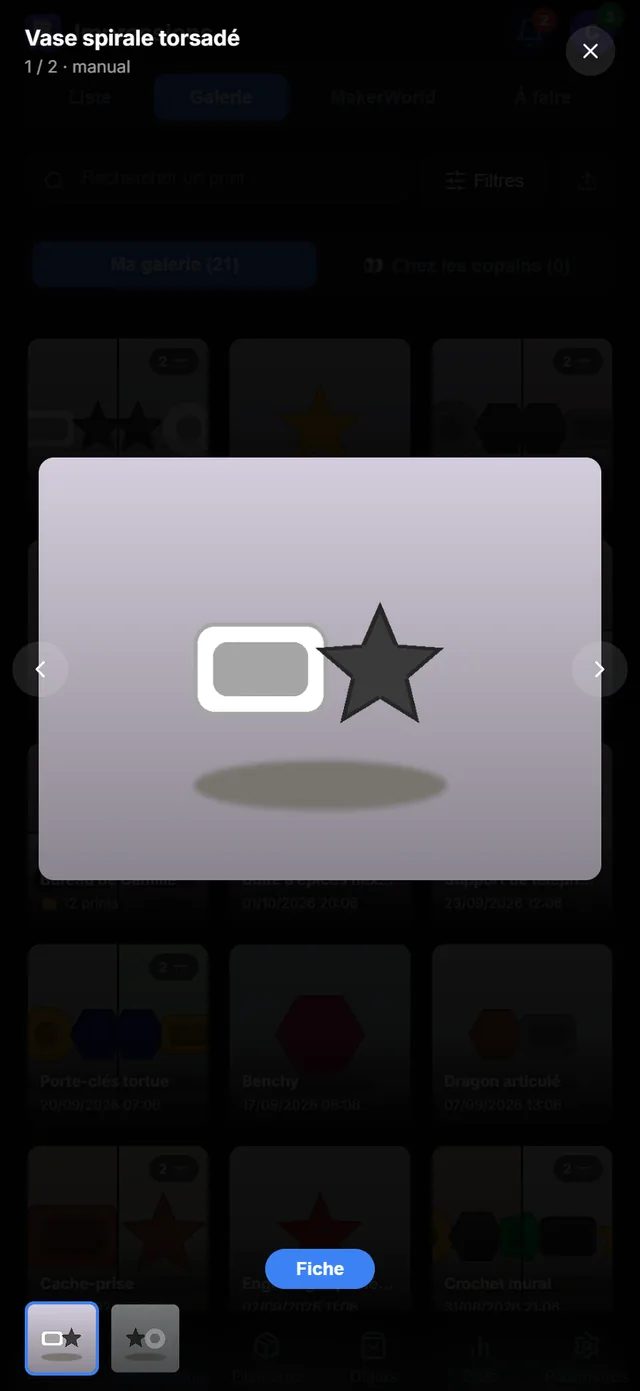
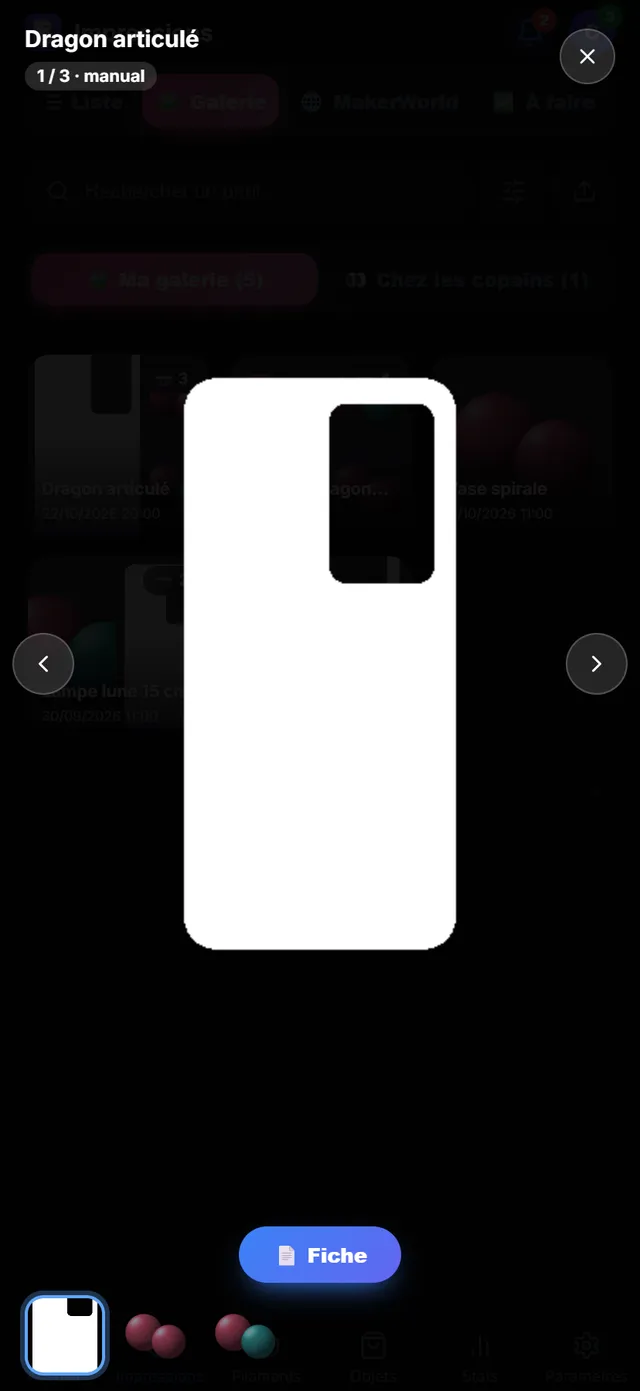
Galerie redessinée : tuiles arrondies, sélection et comparaison soignées, défilement plein écran
Bascule Ma galerie / Chez les copains en couleur, compteur de photos en verre,
tuiles cochées entourées de bleu, bandeau de sélection en verre, fenêtre
Comparer et défilement plein écran refaits. Guide mis à jour.

diff --git a/frontend/src/components/GalleryCompare.jsx b/frontend/src/components/GalleryCompare.jsx
@@ -102,7 +102,10 @@ export default function GalleryCompare({
   });
 
   if (!items?.length) {
-    return <p style={{ textAlign:"center", color:"var(--muted)", fontSize:13, padding:"32px 0" }}>{emptyLabel}</p>;
+    return <div style={{ padding:"26px 16px", borderRadius:18, border:"1px dashed var(--border)", textAlign:"center",
+      background:"radial-gradient(80% 80% at 50% 0%, rgba(236,72,153,0.12), transparent 70%), var(--surface2)" }}>
+      <div style={{ fontSize:30, marginBottom:6 }}>🖼</div>
+      <p style={{ color:"var(--muted)", fontSize:13, fontWeight:600, margin:0 }}>{emptyLabel}</p></div>;
   }
 
   const visibleItems = items.slice(0, visibleCount);
@@ -136,10 +139,12 @@ export default function GalleryCompare({
               onTouchMove={e => { const t=e.touches[0]; movePress(t.clientX, t.clientY); }}
               onTouchEnd={cancelPress}
               onContextMenu={e => e.preventDefault()}
-              style={{ position:"relative", borderRadius:10, overflow:"hidden", cursor:"pointer",
+              style={{ position:"relative", borderRadius: swatchMode ? 10 : 16, overflow:"hidden", cursor:"pointer",
                 aspectRatio: swatchInfo ? undefined : "1", background:"var(--surface2)",
                 display: swatchInfo ? "flex" : undefined, flexDirection:"column",
-                border: checked ? "2px solid #3b82f6" : "2px solid transparent" }}>
+                border: checked ? "2px solid #3b82f6" : "2px solid transparent",
+                boxShadow: checked ? "0 0 0 3px rgba(59,130,246,0.3), 0 10px 24px -12px #3b82f6" : swatchMode ? "none" : "0 8px 20px -14px rgba(0,0,0,.6)",
+                transform: checked ? "scale(.97)" : "none", transition:"transform .15s, box-shadow .15s" }}>
               {swatchInfo ? (
                 // Nuancier avec ses informations : la couleur occupe toute la
                 // tuile, le texte vit sur un voile translucide en bas. Un
@@ -181,16 +186,17 @@ export default function GalleryCompare({
                   boxShadow:"inset 0 0 0 1px rgba(0,0,0,0.22)" }}/>
               )}
               {photos.length > 1 && !swatchMode && (
-                <span style={{ position:"absolute", top:6, right:6, background:"rgba(0,0,0,0.6)", color:"white",
-                  fontSize:9, fontWeight:700, padding:"2px 6px", borderRadius:20 }}>
-                  {photos.length} 📷
+                <span style={{ position:"absolute", top:6, right:6, background:"rgba(15,23,42,0.6)", color:"white",
+                  backdropFilter:"blur(6px)", WebkitBackdropFilter:"blur(6px)",
+                  fontSize:10, fontWeight:800, padding:"2px 7px", borderRadius:20 }}>
+                  📷 {photos.length}
                 </span>
               )}
               {enableCompare && selectMode && (
                 <button onClick={e => { e.stopPropagation(); toggle(item); }}
-                  style={{ position:"absolute", top:6, left:6, width:22, height:22, borderRadius:6,
-                    border: checked ? "none" : "1.5px solid rgba(255,255,255,0.7)",
-                    background: checked ? "#3b82f6" : "rgba(0,0,0,0.35)",
+                  style={{ position:"absolute", top:6, left:6, width:24, height:24, borderRadius:8,
+                    border: checked ? "none" : "1.5px solid rgba(255,255,255,0.8)",
+                    background: checked ? "linear-gradient(135deg, #3B82F6, #6366F1)" : "rgba(15,23,42,0.4)",
                     display:"flex", alignItems:"center", justifyContent:"center", cursor:"pointer", padding:0 }}>
                   {checked && <Check size={13} color="white" strokeWidth={3}/>}
                 </button>
@@ -199,8 +205,8 @@ export default function GalleryCompare({
                   par-dessus, qui fausseraient la lecture de la teinte. */}
               {!swatchMode && (
                 <div style={{ position:"absolute", bottom:0, left:0, right:0,
-                  background:"linear-gradient(transparent,rgba(0,0,0,0.78))", padding:"22px 8px 6px" }}>
-                  <p style={{ fontSize:"clamp(10px, 1.1vw, 12.5px)", color:"white", fontWeight:700, margin:0,
+                  background:"linear-gradient(transparent, rgba(2,6,23,0.85))", padding:"26px 9px 7px" }}>
+                  <p style={{ fontSize:"clamp(11px, 1.15vw, 13px)", color:"white", fontWeight:800, margin:0, textShadow:"0 1px 4px rgba(0,0,0,.5)",
                     overflow:"hidden", textOverflow:"ellipsis", whiteSpace:"nowrap" }}>{getTitle(item)}</p>
                   {getSubtitle && (
                     <p style={{ fontSize:"clamp(9px, 0.95vw, 11px)", color:"rgba(255,255,255,0.75)", margin:"1px 0 0",
@@ -221,12 +227,13 @@ export default function GalleryCompare({
 
       {/* Tray flottant de sélection */}
       {enableCompare && selectedList.length > 0 && (
-        <div style={{ position:"fixed", bottom:76, left:12, right:12, zIndex:500,
-          background:"var(--sheet-bg)", border:"1px solid var(--border)", borderRadius:14,
-          padding:8, display:"flex", alignItems:"center", gap:8, boxShadow:"0 4px 24px rgba(0,0,0,0.35)" }}>
+        <div style={{ position:"fixed", bottom:"calc(76px + env(safe-area-inset-bottom,0px))", left:12, right:12, zIndex:500, maxWidth:620, margin:"0 auto",
+          background:"color-mix(in srgb, var(--sheet-bg) 92%, transparent)", backdropFilter:"blur(10px)", WebkitBackdropFilter:"blur(10px)",
+          border:"1px solid rgba(59,130,246,0.5)", borderRadius:18,
+          padding:8, display:"flex", alignItems:"center", gap:8, boxShadow:"0 14px 34px -10px rgba(59,130,246,0.45)" }}>
           <div style={{ display:"flex", gap:4, overflowX:"auto", flex:1 }}>
             {selectedList.map(item => (
-              <div key={getId(item)} style={{ position:"relative", flexShrink:0, width:32, height:32, borderRadius:6, overflow:"hidden" }}>
+              <div key={getId(item)} style={{ position:"relative", flexShrink:0, width:36, height:36, borderRadius:10, overflow:"hidden" }}>
                 {renderCover ? renderCover(item) :
                   <img src={getCoverImage ? getCoverImage(item) : null} alt="" style={{ width:32, height:32, objectFit:"cover" }}/>}
                 <button onClick={() => toggle(item)}
@@ -236,17 +243,17 @@ export default function GalleryCompare({
               </div>
             ))}
           </div>
-          <span style={{ fontSize:11, color:"var(--muted)", flexShrink:0, fontFamily:"monospace" }}>{selectedList.length}/{maxCompare}</span>
+          <span style={{ fontSize:11.5, fontWeight:800, color:"var(--muted)", flexShrink:0 }}>{selectedList.length}/{maxCompare}</span>
           <button onClick={() => setCompareOpen(true)} disabled={selectedList.length < 2}
-            style={{ padding:"6px 12px", borderRadius:8, fontSize:12, fontWeight:700, flexShrink:0,
-              background: selectedList.length<2 ? "var(--border)" : "#3b82f6",
+            style={{ padding:"8px 13px", borderRadius:12, fontSize:12.5, fontWeight:800, flexShrink:0,
+              background: selectedList.length<2 ? "var(--border)" : "linear-gradient(135deg, #3B82F6, #6366F1)",
               color: selectedList.length<2 ? "var(--muted)" : "white",
               border:"none", cursor: selectedList.length<2 ? "default" : "pointer" }}>
             Comparer
           </button>
           <button onClick={() => setSelected(new Map())}
-            style={{ padding:"6px 10px", borderRadius:8, fontSize:12, flexShrink:0,
-              background:"none", border:"1px solid var(--border)", color:"var(--muted)", cursor:"pointer" }}>
+            style={{ padding:"8px 11px", borderRadius:12, fontSize:12.5, fontWeight:800, flexShrink:0,
+              background:"var(--surface2)", border:"1px solid var(--border)", color:"var(--text2)", cursor:"pointer" }}>
             Vider
           </button>
         </div>
@@ -256,25 +263,28 @@ export default function GalleryCompare({
       {enableCompare && compareOpen && (
         <div onClick={() => setCompareOpen(false)} style={{ position:"fixed", inset:0, zIndex:1300,
           background:"rgba(0,0,0,0.7)", display:"flex", alignItems:"flex-end", justifyContent:"center" }}>
-          <div onClick={e => e.stopPropagation()} style={{ background:"var(--sheet-bg)",
-            borderRadius:"20px 20px 0 0", width:"100%", maxWidth:720, maxHeight:"88dvh", overflowY:"auto",
-            padding:"16px 16px calc(16px + env(safe-area-inset-bottom,0px))" }}>
-            <div style={{ display:"flex", alignItems:"center", justifyContent:"space-between", marginBottom:14 }}>
-              <h3 style={{ fontSize:15, fontWeight:800, color:"var(--text)", margin:0 }}>
+          <div data-no-pull="" onClick={e => e.stopPropagation()} style={{ background:"var(--sheet-bg)",
+            borderRadius:"22px 22px 0 0", width:"100%", maxWidth:720, maxHeight:"88dvh", overflowY:"auto",
+            padding:"0 16px calc(16px + env(safe-area-inset-bottom,0px))" }}>
+            <div style={{ display:"flex", alignItems:"center", gap:10, margin:"0 -16px 14px", padding:"16px 16px 12px",
+              background:"linear-gradient(135deg, rgba(59,130,246,0.22), transparent 70%)" }}>
+              <span style={{ width:36, height:36, borderRadius:12, display:"flex", alignItems:"center", justifyContent:"center", fontSize:17,
+                background:"linear-gradient(135deg, #3B82F6, #6366F1)", color:"#fff" }}>⚖</span>
+              <h3 style={{ flex:1, fontSize:16, fontWeight:900, color:"var(--text)", margin:0 }}>
                 Comparer ({selectedList.length})
               </h3>
               <button onClick={() => setCompareOpen(false)}
-                style={{ background:"var(--surface2)", border:"none", borderRadius:"50%", width:28, height:28,
+                style={{ background:"var(--surface2)", border:"1px solid var(--border)", borderRadius:"50%", width:34, height:34,
                   cursor:"pointer", color:"var(--text2)", display:"flex", alignItems:"center", justifyContent:"center" }}>
                 <X size={15}/>
               </button>
             </div>
             <div style={{ display:"flex", gap:10, overflowX:"auto", paddingBottom:6 }}>
               {selectedList.map(item => (
-                <div key={getId(item)} style={{ flexShrink:0, width:160, background:"var(--surface)",
-                  border:"1px solid var(--border)", borderRadius:12, padding:10 }}>
+                <div key={getId(item)} style={{ flexShrink:0, width:164, border:"1px solid var(--border)", borderRadius:16, padding:10,
+                  background:"linear-gradient(160deg, rgba(59,130,246,0.10), transparent 50%), var(--surface2)" }}>
                   <div onClick={() => { if (normPhotos(item).length) openCarousel(item, 0); }}
-                    style={{ width:"100%", aspectRatio:"1", borderRadius:8, overflow:"hidden",
+                    style={{ width:"100%", aspectRatio:"1", borderRadius:12, overflow:"hidden",
                       cursor: normPhotos(item).length ? "pointer" : "default", marginBottom:8, background:"var(--surface2)" }}>
                     {renderCover ? renderCover(item) : (
                       <img src={getCoverImage ? getCoverImage(item) : null} alt={getTitle(item)}
@@ -282,13 +292,13 @@ export default function GalleryCompare({
                         onError={e => { e.currentTarget.style.display="none"; }}/>
                     )}
                   </div>
-                  <p style={{ fontSize:12, fontWeight:700, color:"var(--text)", margin:"0 0 6px",
+                  <p style={{ fontSize:12.5, fontWeight:800, color:"var(--text)", margin:"0 0 6px",
                     overflow:"hidden", textOverflow:"ellipsis", whiteSpace:"nowrap" }}>{getTitle(item)}</p>
                   {compareFields.map(([label, fn]) => (
                     <div key={label} style={{ display:"flex", justifyContent:"space-between", gap:6,
-                      fontSize:10, padding:"3px 0", borderTop:"1px solid var(--border)" }}>
-                      <span style={{ color:"var(--muted)" }}>{label}</span>
-                      <span style={{ color:"var(--text)", fontWeight:600, textAlign:"right",
+                      fontSize:11, padding:"4px 0", borderTop:"1px dashed var(--border)" }}>
+                      <span style={{ color:"var(--muted)", fontWeight:700 }}>{label}</span>
+                      <span style={{ color:"var(--text)", fontWeight:900, textAlign:"right",
                         overflow:"hidden", textOverflow:"ellipsis", whiteSpace:"nowrap" }}>{fn(item) ?? "—"}</span>
                     </div>
                   ))}
@@ -308,15 +318,16 @@ export default function GalleryCompare({
           <div onClick={() => setCarousel(null)} style={{ position:"fixed", inset:0, zIndex:2000,
             background:"rgba(0,0,0,0.92)", display:"flex", flexDirection:"column" }}>
             <div style={{ display:"flex", alignItems:"center", justifyContent:"space-between", padding:"14px 16px" }}>
-              <div>
-                <p style={{ color:"white", fontSize:14, fontWeight:700, margin:0 }}>{getTitle(carousel.item)}</p>
-                <p style={{ color:"rgba(255,255,255,0.6)", fontSize:11, margin:0 }}>
+              <div style={{ minWidth:0 }}>
+                <p style={{ color:"white", fontSize:15, fontWeight:800, margin:0, overflow:"hidden", textOverflow:"ellipsis", whiteSpace:"nowrap" }}>{getTitle(carousel.item)}</p>
+                <span style={{ display:"inline-block", marginTop:3, color:"#fff", fontSize:11, fontWeight:800, padding:"1px 8px", borderRadius:20,
+                  background:"rgba(255,255,255,0.14)" }}>
                   {carousel.index + 1} / {photos.length}{current.label ? ` · ${current.label}` : ""}
-                </p>
+                </span>
               </div>
               <button onClick={e => { e.stopPropagation(); setCarousel(null); }}
-                style={{ background:"rgba(255,255,255,0.1)", border:"none", borderRadius:"50%",
-                  width:32, height:32, color:"white", cursor:"pointer",
+                style={{ background:"rgba(255,255,255,0.14)", border:"1px solid rgba(255,255,255,0.2)", borderRadius:"50%",
+                  width:36, height:36, color:"white", cursor:"pointer",
                   display:"flex", alignItems:"center", justifyContent:"center", flexShrink:0 }}>
                 <X size={16}/>
               </button>
@@ -326,23 +337,23 @@ export default function GalleryCompare({
               onClick={e => e.stopPropagation()}>
               {photos.length > 1 && (
                 <button onClick={() => move(-1)}
-                  style={{ position:"absolute", left:8, background:"rgba(255,255,255,0.1)", border:"none",
-                    borderRadius:"50%", width:36, height:36, color:"white", cursor:"pointer",
+                  style={{ position:"absolute", left:8, background:"rgba(255,255,255,0.14)", border:"1px solid rgba(255,255,255,0.2)",
+                    borderRadius:"50%", width:40, height:40, backdropFilter:"blur(6px)", color:"white", cursor:"pointer",
                     display:"flex", alignItems:"center", justifyContent:"center", zIndex:1 }}>
                   <ChevronLeft size={18}/>
                 </button>
               )}
               {isVideoUrl(current.url) ? (
                 <video src={current.url} controls autoPlay playsInline
-                  style={{ maxWidth:"88vw", maxHeight:"100%", borderRadius:10 }}/>
+                  style={{ maxWidth:"88vw", maxHeight:"100%", borderRadius:16 }}/>
               ) : (
                 <img src={current.url} alt={current.label}
-                  style={{ maxWidth:"88vw", maxHeight:"100%", objectFit:"contain", borderRadius:10 }}/>
+                  style={{ maxWidth:"88vw", maxHeight:"100%", objectFit:"contain", borderRadius:16 }}/>
               )}
               {photos.length > 1 && (
                 <button onClick={() => move(1)}
-                  style={{ position:"absolute", right:8, background:"rgba(255,255,255,0.1)", border:"none",
-                    borderRadius:"50%", width:36, height:36, color:"white", cursor:"pointer",
+                  style={{ position:"absolute", right:8, background:"rgba(255,255,255,0.14)", border:"1px solid rgba(255,255,255,0.2)",
+                    borderRadius:"50%", width:40, height:40, backdropFilter:"blur(6px)", color:"white", cursor:"pointer",
                     display:"flex", alignItems:"center", justifyContent:"center", zIndex:1 }}>
                   <ChevronRight size={18}/>
                 </button>
@@ -354,9 +365,9 @@ export default function GalleryCompare({
               gap:8, padding:"8px 16px 4px" }}>
               {onItemClick && (
                 <button onClick={e=>{e.stopPropagation(); setCarousel(null); onItemClick(carousel.item);}}
-                  style={{ padding:"6px 20px", borderRadius:20, background:"#3b82f6", color:"white",
-                    border:"none", cursor:"pointer", fontSize:12, fontWeight:700 }}>
-                  Fiche
+                  style={{ padding:"9px 22px", borderRadius:20, background:"linear-gradient(135deg, #3B82F6, #6366F1)", color:"white",
+                    border:"none", cursor:"pointer", fontSize:13, fontWeight:800, boxShadow:"0 8px 18px -8px #3B82F6" }}>
+                  📄 Fiche
                 </button>
               )}
               {/* Actions photo : elles etaient cablees en dur sur
@@ -372,16 +383,16 @@ export default function GalleryCompare({
                     if (!(await showConfirm("Supprimer cette photo ?", { danger: true, confirmLabel: "Supprimer" }))) return;
                     await onDeletePhoto(carousel.item, filename);
                     setCarousel(null); onPhotosChanged?.(); }}
-                    style={{ padding:"6px 14px", borderRadius:20, background:"rgba(239,68,68,0.15)",
-                      color:"#ef4444", border:"1px solid rgba(239,68,68,0.3)", cursor:"pointer", fontSize:12, fontWeight:700 }}>
+                    style={{ padding:"9px 16px", borderRadius:20, background:"rgba(239,68,68,0.18)",
+                      color:"#fca5a5", border:"1px solid rgba(239,68,68,0.4)", cursor:"pointer", fontSize:13, fontWeight:800 }}>
                     🗑 Supprimer
                   </button>
                   {onSetPrimaryPhoto && carousel.index !== 0 && (
                     <button onClick={async e => { e.stopPropagation();
                       await onSetPrimaryPhoto(carousel.item, filename);
                       setCarousel(null); onPhotosChanged?.(); }}
-                      style={{ padding:"6px 14px", borderRadius:20, background:"rgba(34,197,94,0.12)",
-                        color:"#22c55e", border:"1px solid rgba(34,197,94,0.25)", cursor:"pointer", fontSize:12, fontWeight:700 }}>
+                      style={{ padding:"9px 16px", borderRadius:20, background:"rgba(34,197,94,0.18)",
+                        color:"#86efac", border:"1px solid rgba(34,197,94,0.4)", cursor:"pointer", fontSize:13, fontWeight:800 }}>
                       ⭐ Principale
                     </button>
                   )}
@@ -394,8 +405,9 @@ export default function GalleryCompare({
               <div onClick={e => e.stopPropagation()}
                 style={{ display:"flex", gap:6, overflowX:"auto", padding:"4px 16px calc(10px + env(safe-area-inset-bottom,0px))" }}>
                 {photos.map((p, i) => {
-                  const st = { width:48, height:48, objectFit:"cover", borderRadius:6, flexShrink:0, cursor:"pointer",
-                    border: i===carousel.index ? "2px solid #3b82f6" : "2px solid transparent", opacity: i===carousel.index ? 1 : 0.55 };
+                  const st = { width:52, height:52, objectFit:"cover", borderRadius:12, flexShrink:0, cursor:"pointer",
+                    border: i===carousel.index ? "2px solid #60a5fa" : "2px solid transparent", opacity: i===carousel.index ? 1 : 0.55,
+                    boxShadow: i===carousel.index ? "0 0 0 3px rgba(96,165,250,0.3)" : "none" };
                   return isVideoUrl(p.url)
                     ? <video key={i} src={p.url} muted loop autoPlay playsInline preload="metadata"
                         onClick={() => setCarousel(c => ({ ...c, index:i }))} style={st}/>

diff --git a/backend/guide/pages/impressions.html b/backend/guide/pages/impressions.html
@@ -328,11 +328,11 @@
 
 <section id="impressions-galerie">
   <h2>La galerie</h2>
-  <p>L'onglet <span class="ui">Galerie</span> ne montre que les prints et groupes qui ont des <b>photos ajoutées</b> (les captures automatiques de la caméra n'y figurent pas). Chaque tuile carrée est une mosaïque de ses photos, avec le nom et la date (ou « 📁 12 prints » pour un groupe), et « 2 📷 » quand il y a plusieurs photos.</p>
-  <figure class="phone"><img src="img/impressions-galerie.webp" alt="Galerie : tuiles de photos de prints et de groupes"><figcaption>La galerie, avec la bascule « Ma galerie » / « Chez les copains ».</figcaption></figure>
+  <p>L'onglet <span class="ui">Galerie</span> ne montre que les prints et groupes qui ont des <b>photos ajoutées</b> (les captures automatiques de la caméra n'y figurent pas). Chaque tuile carrée est une mosaïque de ses photos, avec le nom et la date (ou « 📁 12 prints » pour un groupe), et « 📷 2 » quand il y a plusieurs photos.</p>
+  <figure class="phone"><img src="img/impressions-galerie.webp" alt="Galerie : tuiles de photos de prints et de groupes"><figcaption>La galerie, avec la bascule « 🖼 Ma galerie » / « 👀 Chez les copains ».</figcaption></figure>
   <ul>
     <li>La <b>recherche</b> et le <b>tri</b> du panneau <span class="ui">Filtres</span> s'appliquent aussi ici.</li>
-    <li>Touche une tuile : ses photos défilent en plein écran (flèches, vignettes en bas, compteur « 1 / 2 »). Le bouton <span class="ui">Fiche</span> ouvre la fiche du print ou du groupe.</li>
+    <li>Touche une tuile : ses photos défilent en plein écran (flèches, vignettes en bas, compteur « 1 / 2 »). Le bouton <span class="ui">📄 Fiche</span> ouvre la fiche du print ou du groupe.</li>
     <li>Si tu as des <a href="#copains">copains</a>, la bascule <span class="ui">👀 Chez les copains</span> montre leurs photos (en lecture seule), avec le nom du copain sur chaque tuile.</li>
   </ul>
   <figure class="phone"><img src="img/impressions-carrousel.webp" alt="Photo en plein écran avec flèches, vignettes et bouton Fiche"><figcaption>Le défilement plein écran d'une tuile.</figcaption></figure>
@@ -340,8 +340,8 @@
   <section id="impressions-galerie-comparer">
     <h3>Comparer des prints</h3>
     <ol>
-      <li>Appuie une demi-seconde sur une tuile : des cases apparaissent.</li>
-      <li>Coche d'autres tuiles (6 au plus). Leurs miniatures s'alignent dans un plateau en bas, avec « 2/6 ».</li>
+      <li>Appuie une demi-seconde sur une tuile : des cases apparaissent, et les tuiles cochées s'entourent de bleu.</li>
+      <li>Coche d'autres tuiles (6 au plus). Leurs miniatures s'alignent dans un bandeau en bas, avec « 2/6 ».</li>
       <li>Touche <span class="ui">Comparer</span> : les éléments s'affichent côte à côte avec leur <b>coût</b>, leur <b>durée</b> et leur <b>poids</b>. <span class="ui">Vider</span> efface la sélection.</li>
     </ol>
     <figure class="phone"><img src="img/impressions-comparer-fen.webp" alt="Fenêtre Comparer (2) : deux prints côte à côte avec coût, durée et poids"><figcaption>Deux prints comparés.</figcaption></figure>

diff --git a/frontend/src/pages/Prints.jsx b/frontend/src/pages/Prints.jsx
@@ -2269,12 +2269,13 @@ function PrintsGalleryView({ search, sortF = "recent" }) {
     .filter(t => !q || (t || "").toLowerCase().includes(q)).length : null;
   return (<>
     {hasFriends && (
-      <div style={{ display:"flex", gap:4, background:"var(--surface2)", borderRadius:12, padding:4,
+      <div style={{ display:"flex", gap:3, background:"var(--surface2)", borderRadius:16, padding:3,
         border:"1px solid var(--border)", marginBottom:10 }}>
-        {[["mine", `Ma galerie${nMine != null ? ` (${nMine})` : ""}`], ["friends", `👀 Chez les copains${nFr != null ? ` (${nFr})` : ""}`]].map(([k, l]) => (
-          <button key={k} onClick={() => setWho(k)} style={{ flex:1, padding:"7px 8px", borderRadius:8, fontSize:12,
-            fontWeight:700, cursor:"pointer", border:"none", background: who === k ? "#3b82f6" : "transparent",
-            color: who === k ? "white" : "var(--muted)" }}>{l}</button>
+        {[["mine", `🖼 Ma galerie${nMine != null ? ` (${nMine})` : ""}`, "#EC4899"], ["friends", `👀 Chez les copains${nFr != null ? ` (${nFr})` : ""}`, "#8B5CF6"]].map(([k, l, c]) => (
+          <button key={k} onClick={() => setWho(k)} style={{ flex:1, padding:"8px 8px", borderRadius:12, fontSize:12.5,
+            fontWeight:800, cursor:"pointer", border:"none", whiteSpace:"nowrap", overflow:"hidden", textOverflow:"ellipsis",
+            background: who === k ? `linear-gradient(135deg, ${c}, color-mix(in srgb, ${c} 70%, #ffffff))` : "transparent",
+            color: who === k ? "white" : "var(--muted)", boxShadow: who === k ? `0 6px 14px -6px ${c}` : "none" }}>{l}</button>
         ))}
       </div>
     )}
